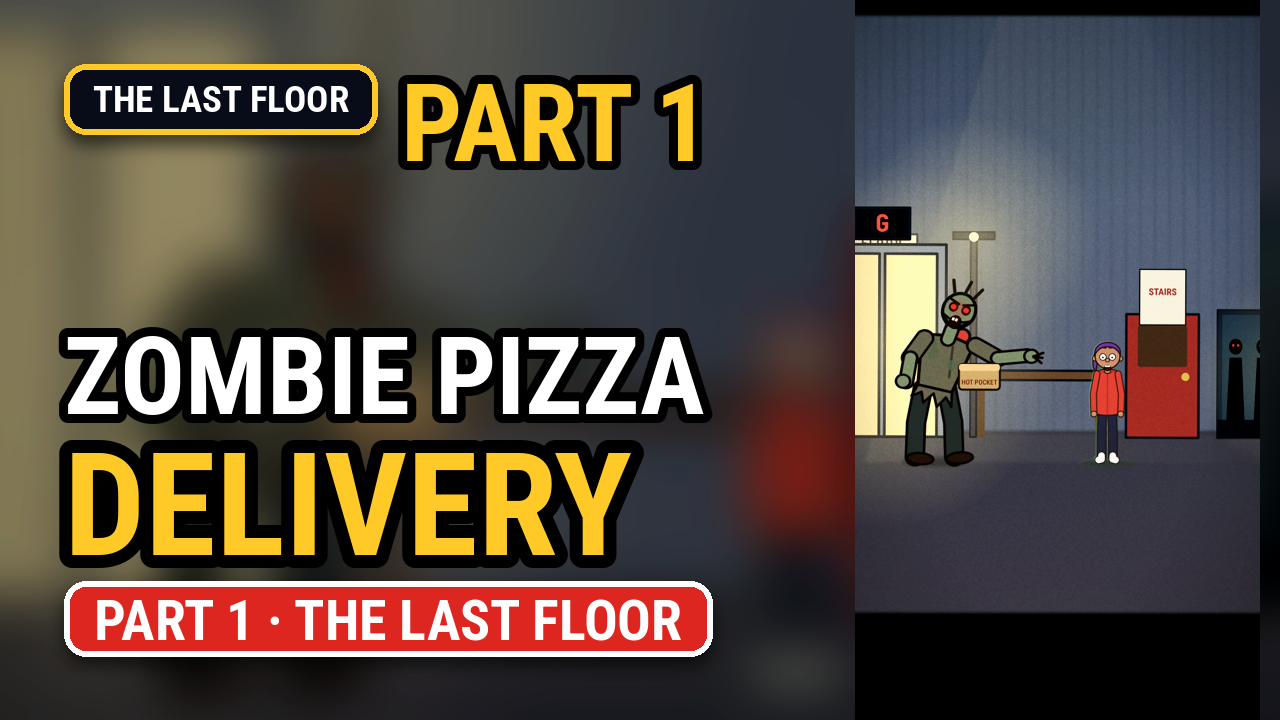
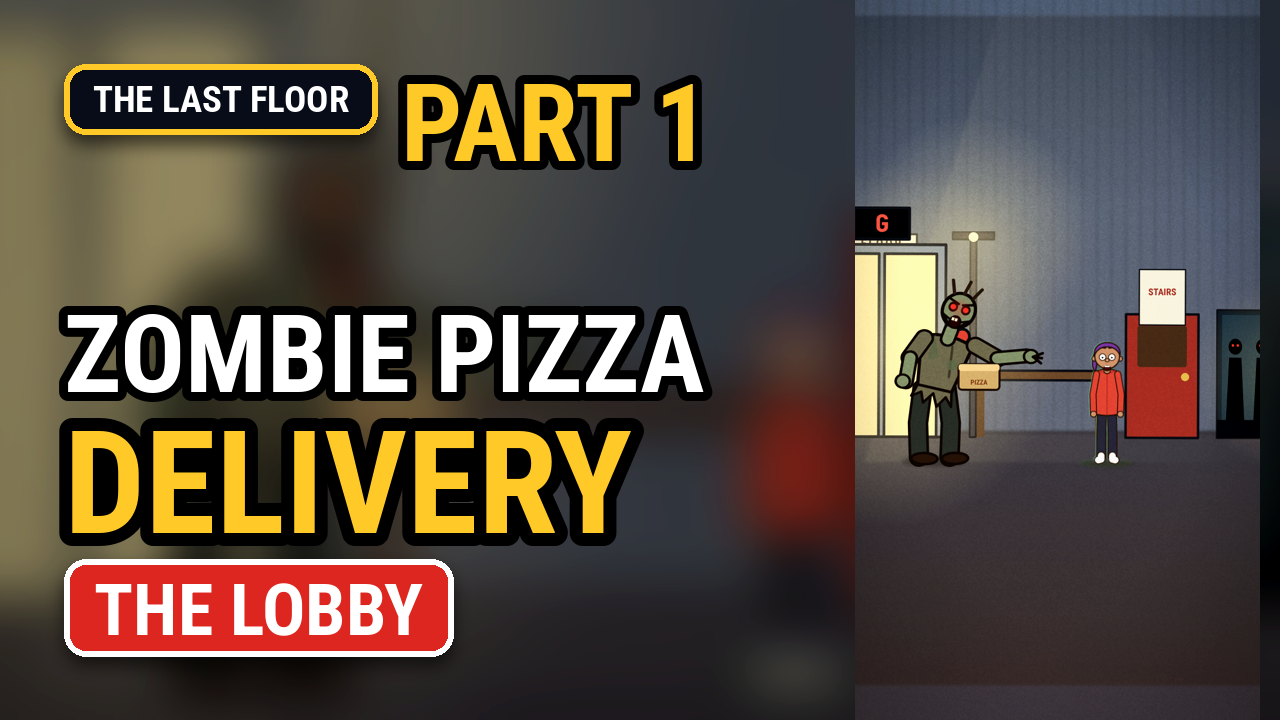
More studio fixes: blink + breathing, lamp flicker + dust, framing, cover headline at top, announcer lines keep 'part n of n', titles with 'Part n'
Claude-Session: https://claude.ai/code/session_01AhwUxu1FBH8sDaZQZihRT9

diff --git a/studio/long/pax9.js b/studio/long/pax9.js
@@ -26,11 +26,11 @@ const PEXP={ // eye type, brow [x1,y1,x2,y2] for the +x brow (mirrored for -x), 
  sleep:{eye:'closed',br:[5,-12,19,-12],mo:'snore'}, wince:{eye:'closed',br:[5,-15,19,-9],mo:'grit'},   deadpan:{eye:'half',br:[5,-12,19,-12],mo:'flat'},
  scared:{eye:'wide',br:[5,-20,19,-11],mo:'grit'},   cry:{eye:'wide',br:[5,-18,19,-9],mo:'frown'}};
 const MOUTH={flat:'M-8,28 L8,28',smile:'M-10,26 Q0,34 10,26',grin:'M-11,25 Q0,38 11,25 Z',wavy:'M-9,29 Q-4,25 0,29 T9,29',frown:'M-9,31 Q0,24 9,31',grit:'M-9,27 L9,27',smirk:'M-9,29 Q2,30 11,24',o:'M0,0',snore:'M-5,28 Q0,32 5,28'};
-function pEyes(q,ex,P,o,ink){const look=o.look||0;const red=o.red||0;
+function pEyes(q,ex,P,o,ink){const look=o.look||0;const red=o.red||0;q._lids=[];
  for(const s of[-1,1]){const cx=s*12,e=G(q,{});
   if(ex.eye==='closed'){E('path',{d:`M${cx-7},3 Q${cx},8 ${cx+7},3`,fill:'none',stroke:ink,'stroke-width':3,'stroke-linecap':'round'},e);continue}
   if(ex.eye==='happy'){E('path',{d:`M${cx-7},5 Q${cx},-4 ${cx+7},5`,fill:'none',stroke:ink,'stroke-width':3.2,'stroke-linecap':'round'},e);continue}
-  const r=ex.eye==='wide'?7.2:ex.eye==='wide2'?8.6:5.8;C(e,cx,2,r,red>0?`rgb(255,${Math.round(255-130*red)},${Math.round(255-150*red)})`:'#fff',{stroke:ink,'stroke-width':2});
+  const r=ex.eye==='wide'?7.2:ex.eye==='wide2'?8.6:5.8;if(!q._lids)q._lids=[];q._lids.push({cx,r,e});C(e,cx,2,r,red>0?`rgb(255,${Math.round(255-130*red)},${Math.round(255-150*red)})`:'#fff',{stroke:ink,'stroke-width':2});
   if(red>0)for(let k=0;k<4;k++){const a=k*1.7+s;L(e,cx+Math.cos(a)*r*.95,2+Math.sin(a)*r*.95,cx+Math.cos(a)*r*.45,2+Math.sin(a)*r*.45,'#d02020',1.2*red+.4,{opacity:.9})}
   C(e,cx+look,3,ex.eye==='wide2'?2.4:ex.eye==='wide'?3.2:2.9,P.eye);C(e,cx+look+1.4,1.2,1,'#fff');
   if(ex.eye==='half'){R(e,cx-8,-6,16,8.4,P.skin)&&L(e,cx-7,2.4,cx+7,2.4,ink,3)}}
@@ -118,7 +118,8 @@ function paxHead(g,P,o){
   q._mouth=m=>A(mo,{opacity:m>.08?1:0,ry:1+6*m});return q}
  for(const s of[-1,1])C(q,s*33,6,6.4,P.skin,{stroke:ink,'stroke-width':2.5});
  C(q,0,0,32,P.skin,{stroke:ink,'stroke-width':3});
- pPale(q,o);pEyes(q,ex,P,o,ink);pBrows(q,ex,D,ink);
+ pPale(q,o);pEyes(q,ex,P,o,ink);
+ const lids=(q._lids||[]).map(l=>E('ellipse',{cx:l.cx,cy:2,rx:l.r+1.3,ry:l.r+1.3,fill:P.skin,stroke:ink,'stroke-width':2,opacity:0},q));q._blink=(t,ph)=>{const b=((t*.8+ph)%3.4)<.13;lids.forEach(l=>A(l,{opacity:b?1:0}))};pBrows(q,ex,D,ink);
  E('ellipse',{cx:0,cy:10,rx:5,ry:4.4,fill:P.skinS,stroke:ink,'stroke-width':2},q);
  if(o.blush)for(const s of[-1,1])C(q,s*20,14,6,'#ff7a7a',{opacity:.35});
  pFaceExtras(q,D,P,v,ink,ex);
@@ -171,9 +172,9 @@ actor=function(g,o){
   if(o.shake){const lt=bt-o.shake.at;if(lt>0&&lt<o.shake.dur){x+=Math.sin(lt*60)*o.shake.amp}}
   if(o.tremble){x+=Math.sin(t*47+(o.ph||0))*o.tremble;y+=Math.cos(t*53)*o.tremble*.6}
   if(o.squash){const lt=bt-o.squash.at;if(lt>0&&lt<.25){const p=Math.sin(lt/.25*Math.PI);sy=1-.12*p;sx=1+.1*p}}
-  if(o.snore){const br=Math.sin(t*2.2);sy*=1+.012*br;bob+=br*1.5}
+  if(o.snore){const br=Math.sin(t*2.2);sy*=1+.012*br;bob+=br*1.5}else{sy*=1+.010*Math.sin(t*2.3+(o.ph||0))}   // breathing
   A(root,{transform:`translate(${x} ${y+bob}) rotate(${rot}) scale(${base.s*base.fl*base.sx*sx} ${base.s*sy})`});
-  const talk=o.talk===true?who:o.talk;const m=talk?mouth(talk):(o.mouth||0);hds.forEach(h=>h&&h._mouth&&h._mouth(m))},root,A1,A2}};
+  const talk=o.talk===true?who:o.talk;const m=talk?mouth(talk):(o.mouth||0);hds.forEach(h=>{if(h&&h._mouth)h._mouth(m);if(h&&h._blink)h._blink(t,(o.ph||0)*3.1)})},root,A1,A2}};
 
 /* Amara's baby sling: the baby's head + hat peeks out (front view only) */
 function slingDeco(g,v){if(v!=='front')return;blob(g,'M-30,-226 Q0,-204 30,-226 L24,-160 Q0,-146 -24,-160Z','#e8d8b8','#241810');const b=G(g,{transform:'translate(0 -212)'});C(b,0,0,15,'#8d5a3b',{stroke:'#241810','stroke-width':2.4});C(b,0,-9,11,'#ffd0e0',{stroke:'#241810','stroke-width':2});C(b,-5,2,2,'#241810');C(b,5,2,2,'#241810');C(b,0,9,3.4,'#ffd23a',{stroke:'#241810','stroke-width':1.6})}

diff --git a/studio/long/world9.js b/studio/long/world9.js
@@ -8,12 +8,13 @@ const sh=(c,a)=>c; const rr=(n)=>rnd(n);
 /* ---- cast ---- */
 for(const id in (W.cast||{})){const c=W.cast[id];defPax(id,Object.assign({ink:'#241810',boot:'#2a2118',skinS:'#c99a74'},c.pal||{}),Object.assign({},c.look||{}))}
 /* ---- item catalogue: draw(g,o) with the ground point at (0,0), facing the viewer ---- */
+const FLK=[];
 const IT={
  building:(g,o)=>{const w=o.w||180,h=o.h||300,c=o.c||'#4a5068';R(g,-w/2,-h,w,h,c,S());R(g,-w/2-6,-h-10,w+12,14,o.c2||'#2f3345',S());const rows=Math.floor(h/58),cols=Math.max(2,Math.floor(w/52));for(let r=0;r<rows;r++)for(let k=0;k<cols;k++){const lit=rr(r*7+k*3+(o.x||0))<(o.lit==null?.35:o.lit);R(g,-w/2+14+k*(w-28)/cols,-h+22+r*58,(w-28)/cols-10,34,lit?GL:'#1d2233',{rx:2,opacity:lit?.95:.9})}R(g,-18,-52,36,52,'#1d2233',S())},
  house:(g,o)=>{const w=o.w||200,h=o.h||130;R(g,-w/2,-h,w,h,o.c||'#b98a5a',S());P(g,`M${-w/2-14},${-h} L0,${-h-80} L${w/2+14},${-h}Z`,o.c2||'#6a2e26',S());R(g,-18,-64,36,64,'#3a2418',S());R(g,w/2-70,-96,44,40,GL,S());R(g,-w/2+26,-96,44,40,GL,S())},
  tree:(g,o)=>{const h=o.h||240;R(g,-8,-h*.5,16,h*.5,'#4a3520',S({'stroke-width':2.5}));C(g,0,-h*.66,h*.34,o.c||'#2f5a34',S());C(g,-h*.2,-h*.52,h*.22,o.c2||'#3a6a3c',S({'stroke-width':0}));C(g,h*.18,-h*.78,h*.2,o.c2||'#3a6a3c',S({'stroke-width':0}))},
  pine:(g,o)=>{const h=o.h||260;R(g,-6,-30,12,30,'#4a3520');for(let i=0;i<4;i++)P(g,`M${-70+i*10},${-30-i*h*.2} L0,${-h*.4-i*h*.2-30} L${70-i*10},${-30-i*h*.2}Z`,o.c||'#1f4a36',S({'stroke-width':2.5}))},
- lamp:(g,o)=>{const h=o.h||260;R(g,-5,-h,10,h,'#3a3a44',S({'stroke-width':2}));R(g,-34,-h-6,68,12,'#2a2a34',S({'stroke-width':2.5}));C(g,0,-h+4,o.r||150,'url(#gLamp)',{opacity:.45});C(g,0,-h+2,8,'#fff3c0')},
+ lamp:(g,o)=>{const h=o.h||260;R(g,-5,-h,10,h,'#3a3a44',S({'stroke-width':2}));R(g,-34,-h-6,68,12,'#2a2a34',S({'stroke-width':2.5}));FLK.push(C(g,0,-h+4,o.r||150,'url(#gLamp)',{opacity:.45}));C(g,0,-h+2,8,'#fff3c0')},
  crate:(g,o)=>{const w=o.w||80;R(g,-w/2,-w,w,w,o.c||'#a67c46',S());L(g,-w/2,-w,w/2,0,'#6a4a26',4);L(g,w/2,-w,-w/2,0,'#6a4a26',4)},
  barrel:(g,o)=>{R(g,-30,-76,60,76,o.c||'#5a6a7a',S({rx:10}));L(g,-30,-52,30,-52,'#2a343e',4);L(g,-30,-24,30,-24,'#2a343e',4)},
  car:(g,o)=>{const c=o.c||'#9a3a3a';P(g,'M-110,-30 L-100,-70 L-60,-76 L-34,-112 L50,-112 L84,-76 L112,-66 L116,-30Z',c,S());P(g,'M-28,-104 L-52,-76 L-10,-76 L-10,-104Z M2,-104 L2,-76 L76,-76 L46,-104Z','#9fc3d8',S({'stroke-width':2.4}));for(const x of[-68,72]){C(g,x,-24,24,'#1a1a20',S());C(g,x,-24,10,'#8a8a94')}},
@@ -72,7 +73,7 @@ function skyDraw(f,L){const sk=P_.sky||['#3d3a6e','#c2677a','#f1a477'];const id=
  if(W.clouds!==false){fCloud(f,260,170,520,P_.cloud||'#ffc9a8',.36);fCloud(f,940,240,620,P_.cloud2||'#e79a9a',.3)}
  if(W.sun)C(f,L.sunx||920,L.suny||190,60,'#fff3c0',{opacity:.9})}
 function lanePos(vpx,vpy,gy){return {x:(X,z)=>vpx+X/z,y:z=>vpy+(gy-vpy)/z}}
-LOC['w_'+W.id]=(Z,p)=>{const LC=(W.locs||{})[p.v||Object.keys(W.locs)[0]]||{};const f=G(Z.far),m=G(Z.mid),n=G(Z.near);const upd=[];const kind=LC.kind||'out';
+LOC['w_'+W.id]=(Z,p)=>{FLK.length=0;const LC=(W.locs||{})[p.v||Object.keys(W.locs)[0]]||{};const f=G(Z.far),m=G(Z.mid),n=G(Z.near);const upd=[];const kind=LC.kind||'out';
  const layers=[G(f),G(m),G(n)];
  if(kind==='in'){R(f,-200,-700,1680,2400,LC.wall||P_.wall||'#3a3530');for(let i=0;i<64;i++)R(f,i*24-60,-700,2,2400,'rgba(0,0,0,.18)');R(f,-200,590,1680,900,LC.floor||P_.floor||'#2a2420');R(f,-200,590,1680,420,'url(#gGroundShade)',{opacity:.8});L(f,-200,590,1480,590,'rgba(0,0,0,.4)',4);
   if(LC.light!==false)P(f,'M520,-100 L760,-100 L980,640 L300,640Z','url(#gCone)',{opacity:.12});R(f,-200,-100,1680,900,'url(#gWallShade)',{opacity:.8});A(f,{style:'filter:blur(2.4px)'})}

diff --git a/studio/long/arcs/lastfloor/lastfloor_02.py b/studio/long/arcs/lastfloor/lastfloor_02.py
@@ -13,9 +13,9 @@ EL=lambda lab='G',open_=False:[dict(t='elevator',x=330,y=600,s=1.5,open=open_,la
 LOB=dict(x=620,y=470,z=.62)
 # 1 HOOK  who: Zara + zombie courier | where: lobby, elevator open
 ST=dict(x=640,y=450,z=.7);RF=dict(x=640,y=470,z=.7)
-LANDX=(930,1000);LANDY=282          # top landing of the flight: floor level of the next floor
+LANDX=(900,1000);LANDY=282          # top landing of the flight: floor level of the next floor
 SOFA=lambda:dict(k='prop',t='sofa',x=stp(5)[0],y=stp(5)[1]+8,s=.8)
-REDDOOR=dict(k='prop',t='door',x=1000,y=LANDY,s=1.1,c='#a8332b')
+REDDOOR=dict(k='prop',t='door',x=985,y=LANDY,s=1.0,c='#a8332b')
 # ---------- hall, floor 4: Mrs. Lin ----------
 P.B(S([('omar',"Floor four. Mrs. Lin lives here.","ชั้นสี่ คุณนายลินอยู่ที่นี่")]),W.lane('hall',[W.at('omar',-90,2.1,'worried',view='back'),W.at('zara',70,2.3,'scared',view='back'),W.at('bell',-10,2.9,'scared',view='back')],x=640,y=430,z=1.0),mood='creep',cam='travel',fx=[P.announce()],sfx=[('creak',.3)],
  intent=I('Omar, Zara, Bell','The group tiptoes down the hall on floor four toward a glowing door, seen from behind','hall on floor 4, door at the end','back views walking away down the corridor','Is Mrs. Lin still alive?'))
@@ -31,7 +31,7 @@ P.B(S([('bell',"I did. Rule one.","ฉันเอง กฎข้อแรก")
 P.B(S([('bell',"Go up. Seal the door behind you.","ขึ้นข้างบน ปิดประตูข้างหลัง")]),card('rulecard',n=1,head='TOWER RULE',lines=['GO UP','SEAL THE DOOR','BEHIND YOU'],bg=dict(loc='w_lastfloor',v='stair',z=1.6,x=640,y=430)),mood='warm',sfx=[('bell',0)],
  intent=I('Bell','Bell states rule one; the card shows GO UP, SEAL THE DOOR BEHIND YOU','stair, rule card hung on the wall','paper tag over the blurred stairwell','Will they be able to follow it?'))
 # ---------- the flight: sofa on step 5 ----------
-S5=Scene(W,'stair',x=700,y=450,z=.7,add=fl(5))
+S5=Scene(W,'stair',x=660,y=450,z=.7,add=fl(5))
 for who,k,ex in (('lin',0,'calm'),('zara',1,'calm'),('omar',2,'worried'),('bell',3,'calm')):S5.put(who,stp(k)[0],stp(k)[1],expr=ex)
 P.B(S([('omar',"Floor four, five, six... that's a lot of floors.","ชั้นสี่ ห้า หก... ชั้นเยอะจัง"),('zara',"Keep climbing. Don't count.","เดินต่อ อย่านับ")]),S5.shot(moves={'lin':(stp(1)[0],'walk',stp(1)[1]),'zara':(stp(2)[0],'walk',stp(2)[1]),'omar':(stp(3)[0],'walk',stp(3)[1]),'bell':(stp(4)[0],'walk',stp(4)[1])},extra=[SOFA()]),mood='comic',cam='drift',sfx=[('sigh',.3),('rimshot',1.6)],
  intent=I('Omar, Zara, Mrs. Lin, Bell','Four climbers walk up the stairs in a line toward a big red sofa lying across the steps','stair, floor 5 sign, sofa on step 5','side view, all four climb, the sofa is ahead of them','Is Omar going to make it all the way?'))
@@ -45,19 +45,19 @@ P.B(S([('zara',"...Direct hit.","...โดนเต็มๆ")]),S5.shot(zmoves=
  intent=I('Zara, Omar, Bell, Mrs. Lin','The sofa tumbles down the stairs and flattens the zombies; the climbers grin','stair, floor 5, the sofa falls to the bottom','the sofa spins down the steps onto the zombies, sticker THUD!','What waits on floor six?'))
 S5.zout('z1','z3')
 S6=S5;S6.add=fl(6)
-P.B(S([('lin',"That's my sister's flat. She says never open it.","นั่นห้องของพี่สาวฉัน เธอบอกว่าห้ามเปิด")]),S6.shot(moves={'bell':(LANDX[0],'walk',LANDY),'omar':(LANDX[0]-60,'walk',LANDY),'zara':(LANDX[0]-120,'walk',LANDY),'lin':(LANDX[0]-180,'walk',LANDY)},extra=[REDDOOR,dict(k='prop',t='poster',x=1000,y=LANDY-110,s=.55,label='NO')]),mood='creep',cam='push_in',sfx=[('stab',.2),('heartbeat',.6)],
+P.B(S([('lin',"That's my sister's flat. She says never open it.","นั่นห้องของพี่สาวฉัน เธอบอกว่าห้ามเปิด")]),S6.shot(moves={'bell':(LANDX[0],'walk',LANDY),'omar':(LANDX[0]-60,'walk',LANDY),'zara':(LANDX[0]-120,'walk',LANDY),'lin':(LANDX[0]-180,'walk',LANDY)},extra=[REDDOOR,dict(k='prop',t='poster',x=985,y=LANDY-100,s=.5,label='NO')]),mood='creep',cam='push_in',sfx=[('stab',.2),('heartbeat',.6)],
  intent=I('Mrs. Lin, Omar, Zara, Bell','They climb onto the floor-six landing where a red door marked NO waits','stair, floor 6 landing, red door at the right','everyone walks up the last steps toward the red door','What is behind the red door?'))
 # ---------- flat of floor 6: Dot ----------
 F=Scene(W,'flat',x=620,y=470,z=.62)
-F.put('lin',440,expr='worried').put('omar',340,expr='shock').put('bell',250,expr='scared').zput('dot',860,seed=21,sc=1.0,held='crate')
+F.put('lin',500,expr='worried').put('omar',410,expr='shock').put('bell',335,expr='scared').zput('dot',860,seed=21,sc=1.0,held='crate')
 P.B(S([('lin',"Dot, you're not well.","ด็อต เธอไม่สบาย")]),F.shot(extra=[dict(k='prop',t='crate',x=640,y=600,s=.9),dict(k='prop',t='barrel',x=720,y=600,s=.8)],pose={'lin':'stand'}),mood='comic',sfx=[('creak',.1),('rimshot',1.2)],
  intent=I('Mrs. Lin, Omar, Bell, Dot the zombie','The door swings open on a messy flat; Dot the zombie stands in a party hat holding a casserole','flat on floor 6, junk piled everywhere','wide shot of the flat, Dot at the right with a casserole','Will Dot attack?'))
-P.B(S([('bell',"Leave her. Lock the door.","ทิ้งเธอไว้ ล็อกประตู")]),F.shot(zmoves={'dot':(700,True)},moves={'bell':(300,'walk')},expr={'bell':'angry'},extra=[dict(k='prop',t='crate',x=640,y=600,s=.9),dict(k='prop',t='barrel',x=720,y=600,s=.8)]),mood='creep',cam='push_in',sfx=[('stab',.2)],
+P.B(S([('bell',"Leave her. Lock the door.","ทิ้งเธอไว้ ล็อกประตู")]),F.shot(zmoves={'dot':(700,True)},moves={'bell':(350,'walk')},expr={'bell':'angry'},extra=[dict(k='prop',t='crate',x=640,y=600,s=.9),dict(k='prop',t='barrel',x=720,y=600,s=.8)]),mood='creep',cam='push_in',sfx=[('stab',.2)],
  intent=I('Bell, Mrs. Lin, Omar, Dot','Dot shuffles toward them with the casserole while Bell reaches for the door handle','flat on floor 6','Dot walks into the shot, Bell grabs the door','Will they get the door shut in time?'))
 P.B(S([('lin',"Goodbye, Dot. Click.","ลาก่อน ด็อต คลิก")]),card('macro',obj='lock',bg=dict(loc='w_lastfloor',v='stair',z=1.7,x=640,y=430)),mood='sad',sfx=[('click',.5),('swell',0)],
  intent=I('Mrs. Lin','Mrs. Lin turns the key and locks her sister in','stair, close-up of the lock','macro card of the padlock, click and a sad swell','Is this the only way to keep Dot safe?'))
 # ---------- up again: floors 7-9 ----------
-S7=Scene(W,'stair',x=700,y=450,z=.7,add=fl(7))
+S7=Scene(W,'stair',x=660,y=450,z=.7,add=fl(7))
 for who,k,ex in (('lin',0,'worried'),('zara',1,'scared'),('omar',2,'scared'),('bell',3,'worried')):S7.put(who,stp(k)[0],stp(k)[1],expr=ex)
 S7.zput('z1',300,seed=31).zput('z2',380,seed=32).zput('z3',460,seed=33)
 P.B(S([('zara',"They're gaining. Floor seven.","พวกมันตามทัน ชั้นเจ็ด")]),S7.shot(moves={'lin':(stp(2)[0],'run',stp(2)[1]),'zara':(stp(3)[0],'run',stp(3)[1]),'omar':(stp(4)[0],'run',stp(4)[1]),'bell':(stp(5)[0],'run',stp(5)[1])},zmoves={'z1':400,'z2':470,'z3':540}),mood='creep',cam='push_in',sfx=[('horde',.1),('heartbeat',.5)],
@@ -73,5 +73,5 @@ META=W.meta(hook='Never Open The Red Door! A Sofa Smashes The Zombies',premise='
  body='Part 2 of THE LAST FLOOR: the climb gets harder. A sofa blocks the stairs, Mrs. Lin has to lock her zombie sister in, and the zombies are one flight behind. Real tip: block and seal doors behind you, and keep moving up.',nxt='the roof',ask='Would YOU have opened the red door? Tell me in the comments.',
  tags='the last floor, zombie apartment, zombie apocalypse animation, zombie story, apartment survival, zombie survival tips, funny zombie animation, animated zombie series, zombie shorts, post time survival, zombie comedy, parrot, tower, stairwell, survival tips, apocalypse story, animated comedy',
  tt='Never open the red door. 🚪🧟 A sofa, a sister and 12 floors.',ig='Never open the red door. 🚪 A sofa, a sister and 12 floors. Real survival tip inside.',pin='Would YOU open the red door? 👇 Next: the roof.')
-COVER=dict(beat=6,frac=.55,main="DON'T OPEN|THE RED DOOR",box='PART 2 · THE LAST FLOOR')
+COVER=dict(beat=6,frac=.55,main="DON'T OPEN|THE RED DOOR",box='THE STAIRS')
 VOICES,FILT,SPEAKERS,NAMES_EN,NAMES_TH,ALL_WORDS,WORLD,NEW=W.exports(part_new=['mrs-lin','sofa-barricade','dot-the-zombie'])

diff --git a/studio/long/arcs/lastfloor/lastfloor_01.py b/studio/long/arcs/lastfloor/lastfloor_01.py
@@ -37,7 +37,7 @@ P.B(S([('bell',"Evac helicopter. Roof. Six a.m.","เฮลิคอปเตอ
 P.B(S([('zara',"Twelve floors. In the dark.","สิบสองชั้น ในความมืด"),('bell',"Then we start now.","งั้นเริ่มเดี๋ยวนี้")]),L.shot(moves={'bell':(775,'run'),'zara':(810,'run')},expr={'zara':'scared'},add=ELV('B',False)),mood='creep',cam='push_in',fx=[sticker(.4,'BANG!',x=300,y=170,rot=6,size=56,c='#ffcf6a',dur=1.0),shake(.4,5,.5)],sfx=[('horde',.1),('stab',.5)],
  intent=I('Bell, Zara','Zombies slam the glass front door while Bell and Zara run for the red stair door','lobby, glass door at the right, stair door in the middle','both run to the stair door, BANG! on the glass','Will the glass hold?'))
 # ============ STAIRS: floor 1 -> 2 ============
-S1=Scene(W,'stair',x=640,y=450,z=.7,add=fl(2))
+S1=Scene(W,'stair',x=600,y=450,z=.7,add=fl(2))
 S1.put('bell',stp(0)[0]-40,stp(0)[1]+40,expr='calm').put('zara',stp(0)[0]-90,stp(0)[1]+50,expr='worried')
 P.B(S([('bell',"Zombies hate stairs. No hands for the rail.","ซอมบี้เกลียดบันได ไม่มีมือจับราว")]),S1.shot(moves={'bell':(stp(4)[0],'walk',stp(4)[1]),'zara':(stp(3)[0],'walk',stp(3)[1])}),mood='warm',cam='drift',sfx=[('sigh',.2)],
  intent=I('Bell, Zara','Bell and Zara come through the stair door and climb the first flight','stair, floor 2 sign on the wall','side view, both walk up the diagonal steps','Is the stairwell really safer?'))
@@ -47,18 +47,18 @@ P.B(S([('zara',"Floor two. Every door is open.","ชั้นสอง ทุก
 P.B(S([('bell',"Close them. One by one.","ปิดมัน ทีละบาน")]),card('macro',obj='lock',bg=dict(loc='w_lastfloor',v='stair',z=1.7,x=640,y=430)),mood='warm',sfx=[('click',.3),('bell',.8)],
  intent=I('Bell','Bell clicks a fire-door lock shut behind them','stair, close-up of the lock','macro card of the padlock and chain, click sound','Is one lock enough?'))
 # ============ STAIRS, floor 3 landing: Omar ============
-S2=Scene(W,'stair',x=640,y=450,z=.7,add=fl(3))
+S2=Scene(W,'stair',x=700,y=450,z=.7,add=fl(3))
 S2.put('bell',470,expr='calm').put('zara',590,expr='worried')
 DOOR3=dict(k='prop',t='door',x=940,y=600,s=1.3)
 P.B(S([('omar',"Don't hurt me! I'm a chef!","อย่าทำร้ายผม! ผมเป็นเชฟ")]),S2.shot(extra=[DOOR3,W.person('omar','scared',940,FOOT,view='front',pose='panic')]),mood='comic',sfx=[('creak',.1),('boing',.7)],
  intent=I('Omar, Zara, Bell','Omar flings his flat door open and waves a frying pan at them','stair, floor 3 landing, door at the right','panic pose, pan raised, door open','Can a chef fight zombies?'))
 S2.put('omar',940,expr='smile')
-P.B(S([('omar',"I brought my pan.","ผมเอากระทะมาด้วย"),('zara',"A pan is not a plan.","กระทะไม่ใช่แผน")]),S2.shot(moves={'omar':(800,'walk')},vx=720,z=.85,expr={'zara':'angry'},extra=[DOOR3]),mood='comic',sfx=[('rimshot',.9)],
+P.B(S([('omar',"I brought my pan.","ผมเอากระทะมาด้วย"),('zara',"A pan is not a plan.","กระทะไม่ใช่แผน")]),S2.shot(moves={'omar':(800,'walk')},vx=680,z=.85,expr={'zara':'angry'},extra=[DOOR3]),mood='comic',sfx=[('rimshot',.9)],
  intent=I('Omar, Zara','Omar walks toward them lifting the pan proudly while Zara rolls her eyes','stair, floor 3 landing','medium shot of the group at the landing','Does the pan do anything useful?'))
 S2.hold('omar','cage',ox=62,oy=-120,sc=1.0)
 P.B(S([('omar',"Also, meet Pip. Mrs. Lin's parrot.","และนี่พิพ นกแก้วของคุณนายลิน")]),S2.shot(moves={'omar':(690,'walk')},expr={'omar':'grin'},extra=[DOOR3]),mood='comic',sfx=[('boing',.1)],
  intent=I('Omar, Bell, Zara','Omar walks over carrying a birdcage with a parrot inside','stair, floor 3 landing','Omar carries the cage across the shot toward the others','What will the parrot do?'))
-P.B(S([('pip',"Open the door! Open the door!","เปิดประตู! เปิดประตู!"),('bell',"Pip. Not that sentence.","พิพ ไม่ใช่ประโยคนั้น")]),S2.shot(vx=640,z=1.1,expr={'bell':'angry'},extra=[DOOR3]),mood='comic',fx=[sticker(.2,'SQUAWK!',x=225,y=170,rot=-6,size=56,c='#ffe14a',dur=1.5)],sfx=[('boing',.1)],
+P.B(S([('pip',"Open the door! Open the door!","เปิดประตู! เปิดประตู!"),('bell',"Pip. Not that sentence.","พิพ ไม่ใช่ประโยคนั้น")]),S2.shot(vx=680,z=1.1,expr={'bell':'angry'},extra=[DOOR3]),mood='comic',fx=[sticker(.2,'SQUAWK!',x=225,y=170,rot=-6,size=56,c='#ffe14a',dur=1.5)],sfx=[('boing',.1)],
  intent=I('Bell, Omar, Pip','The parrot squawks and Bell winces beside Omar and the cage','stair, floor 3 landing, closer shot','medium shot, sticker SQUAWK!','Who else heard that?'))
 S2.zput('z1',250,seed=9).zput('z2',340,seed=12).zput('z3',170,seed=15)
 S2.p['zara']['face']='backhead'
@@ -70,5 +70,5 @@ META=W.meta(hook='A Zombie Delivers Pizza To The Elevator! 12 Floors To Survive'
  body='The super and a teen must climb a zombie-filled tower to the roof before the 6 a.m. rescue helicopter. Real tip: never take the elevator, use the stairs and lock the fire doors behind you.',nxt='the stairs',ask='Which floor would YOU stop on? Tell me in the comments.',
  tags='the last floor, zombie apartment, zombie apocalypse animation, zombie story, apartment survival, zombie survival tips, funny zombie animation, animated zombie series, zombie shorts, post time survival, zombie comedy, parrot, tower, stairwell, survival tips, apocalypse story, animated comedy',
  tt='A zombie delivered pizza to the elevator. 🍕🧟 12 floors, one parrot, one pan.',ig='A zombie delivered pizza to the elevator. 🍕 12 floors, one parrot, one pan. Real survival tip inside.',pin='Which floor would YOU stop on? 👇 Next: the stairs.')
-COVER=dict(beat=0,frac=.55,main='ZOMBIE PIZZA|DELIVERY',box='PART 1 · THE LAST FLOOR')
+COVER=dict(beat=0,frac=.55,main='ZOMBIE PIZZA|DELIVERY',box='THE LOBBY')
 VOICES,FILT,SPEAKERS,NAMES_EN,NAMES_TH,ALL_WORDS,WORLD,NEW=W.exports()

diff --git a/studio/long/worldlib.py b/studio/long/worldlib.py
@@ -146,8 +146,8 @@ class WorldPart(Script):
             fx.append(dict(k=s.W.id+'_route',at=0,stop=s.part,of=s.of,label=f'{s.say}  ·  {lab}'));return s.beat(say,sc,view=view,fx=fx,**k)
         return s.beat(say,shot,fx=fx,**k)
     def open(s,**k):
-        a=s.W.spec['ann'];return s.B([('ann',f"{s.say}. Part {NUMW[s.part]}: {s.topic.lower()}.")],card(s.W.id+'_ann',mode='open',part=s.part,of=s.of,title=s.topic.upper()),mood='idle',sfx=[('radio',0)],**k)
+        a=s.W.spec['ann'];return s.B([('ann',f"{s.say}. Part {NUMW[s.part]} of {NUMW[s.of]}: {s.topic.lower()}.")],card(s.W.id+'_ann',mode='open',part=s.part,of=s.of,title=s.topic.upper()),mood='idle',sfx=[('radio',0)],**k)
     def close(s,nxt=None,**k):
-        if s.part<s.of:t=f"Next: {(nxt or '').lower()}. Follow for part {NUMW[s.part+1]}.";c=card(s.W.id+'_ann',mode='close',part=s.part,of=s.of,next=(nxt or '').upper())
-        else:t=f"The end. Follow for the next series.";c=card(s.W.id+'_ann',mode='end',part=s.part,of=s.of)
+        if s.part<s.of:t=f"Part {NUMW[s.part]} of {NUMW[s.of]}, {s.say}. Next: {(nxt or '').lower()}. Follow for part {NUMW[s.part+1]}.";c=card(s.W.id+'_ann',mode='close',part=s.part,of=s.of,next=(nxt or '').upper())
+        else:t=f"Part {NUMW[s.of]} of {NUMW[s.of]}, the end of {s.say}. Follow for the next series.";c=card(s.W.id+'_ann',mode='end',part=s.part,of=s.of)
         return s.B([('ann',t)],c,mood='idle' if s.part<s.of else 'sad',nofade=s.part>=s.of,sfx=[('radio',0)],**k)

diff --git a/studio/ser/cover.py b/studio/ser/cover.py
@@ -18,7 +18,7 @@ def shadowbox(img,box,fill,radius,outline=None):
     sh=Image.new('RGBA',img.size,(0,0,0,0));ImageDraw.Draw(sh).rounded_rectangle([box[0]+0,box[1]+10,box[2],box[3]+10],radius,fill=(0,0,0,150))
     img.alpha_composite(sh.filter(ImageFilter.GaussianBlur(8)))
     d=ImageDraw.Draw(img);d.rounded_rectangle(box,radius,fill=fill,outline=outline,width=6 if outline else 0)
-def make(base,out,aspect,part,main,box,accent=0,tag="THE LIGHTHOUSE"):
+def make(base,out,aspect,part,main,box,accent=0,tag="THE LIGHTHOUSE",top=False):
     im=Image.open(base).convert('RGBA')
     # contrast / saturation pop + vignette
     from PIL import ImageEnhance
@@ -38,7 +38,7 @@ def make(base,out,aspect,part,main,box,accent=0,tag="THE LIGHTHOUSE"):
         bsz=fit(box,W-2*m-70,int(W*.10));bw=F(bsz).getlength(box)+70;bh=int(bsz*1.35)
         msz=[fit(ln,W-2*m,int(W*.165)) for ln in lines]
         block=sum(int(z*1.0) for z in msz)+18+bh
-        y=yb-block
+        y=(y0+th+34) if top else yb-block      # top=True: the headline sits in the upper third so it never covers the cast standing in the lower half
         for i,ln in enumerate(lines):
             outlined(d,(W/2,y),ln,msz[i],YEL if i==accent else WHITE,'ma');y+=int(msz[i]*1.0)
         shadowbox(im,[W/2-bw/2,y+18,W/2+bw/2,y+18+bh],RED,28,outline=WHITE);d=ImageDraw.Draw(im)

diff --git a/studio/long/arcs/lastfloor/lastfloor_03.py b/studio/long/arcs/lastfloor/lastfloor_03.py
@@ -66,5 +66,5 @@ META=W.meta(hook='Three Flashes Saved Us On The Roof! A Parrot Yells MAYDAY',pre
  body='Finale of THE LAST FLOOR. The survivors find the roof key and signal the helicopter with a frying pan. Real tip: three of anything (flashes, fires, whistle blasts) is the international distress signal.',nxt='',ask='What would YOU use to signal for help? Tell me in the comments.',
  tags='the last floor, zombie apartment, zombie apocalypse animation, zombie story, apartment survival, zombie survival tips, funny zombie animation, animated zombie series, zombie shorts, post time survival, zombie comedy, parrot, tower, stairwell, survival tips, apocalypse story, animated comedy',
  tt='Three flashes. 🚁🧟 The roof, the rescue and a parrot yelling MAYDAY.',ig='Three flashes. 🚁 The finale: the roof, the rescue and a parrot yelling MAYDAY. Real survival tip inside.',pin='What would YOU use to signal for help? 👇')
-COVER=dict(beat=9,frac=.55,main='A PAN SAVED|THE ROOF',box='PART 3 · THE LAST FLOOR')
+COVER=dict(beat=9,frac=.55,main='A PAN SAVED|THE ROOF',box='THE ROOF')
 VOICES,FILT,SPEAKERS,NAMES_EN,NAMES_TH,ALL_WORDS,WORLD,NEW=W.exports(part_new=['signal-in-threes','pan-mirror','key-roof','helicopter-rescue'])

diff --git a/studio/long/clipreg.py b/studio/long/clipreg.py
@@ -41,7 +41,7 @@ def meta(n):
     if legacy(n):
         import meta_lb;m=dict(meta_lb.M[int(n)]);m['tags']=meta_lb.YT_TAGS;return m
     M=module(n).META;s=series(n);nm=s['name'];p=s['part'];of=s['of'];fin=p>=of;nxt=M.get('nxt','')
-    sfx=f" | {nm.title() if nm.isupper() else nm} P{p}"+(' Finale' if fin else '');hook=M['hook'].strip()
+    sfx=f" | {nm.title() if nm.isupper() else nm} Part {p}"+(' Finale' if fin else '');hook=M['hook'].strip()
     if len(hook)+len(sfx)>70:            # marketing: <= 70 characters so phones do not cut the title; shorten the hook at a word boundary
         cut=hook[:70-len(sfx)-1].rsplit(' ',1)[0].rstrip(' ,;:-—!?')
         hook=cut+('!' if M['hook'].rstrip().endswith('!') else '')

diff --git a/studio/departments/audit_visual.py b/studio/departments/audit_visual.py
@@ -55,7 +55,7 @@ def audit(cid):
         vx=vx[0] if isinstance(vx,list) else vx
         for a in p.get('acts',[]):
             if a.get('k') in('prop','horde','dog','sticker') or a.get('x') is None:continue
-            xs=[a['x']]+([a['to'][0]] if a.get('to') else [])
+            xs=[a['to'][0]] if a.get('to') else [a['x']]      # a person who walks may enter the frame from outside; only the end point counts
             for x in xs:
                 sx=225+(x-vx)*z*1.045;hw=38*a.get('s',.7)*z*1.045*(a.get('sx',1))
                 if sx-hw<-4 or sx+hw>454:cut.append((i,a['k'],round(sx)));break

diff --git a/studio/long/cover9.py b/studio/long/cover9.py
@@ -34,6 +34,6 @@ if __name__=='__main__':
     for n in [int(x) if x.isdigit() else x for x in a]:
         bp=base(n,R+'/covers9/base');_,_,main,box,acc=CR.cover_cfg(n);si=CR.series(n)
         out9=f'{R}/'+CR.cover(n,'9x16');out169=f'{R}/'+CR.cover(n,'16x9')
-        cover.make(bp,out9,'916',f"PART {si['part']}",main,box,acc,tag=si['name'])
+        cover.make(bp,out9,'916',f"PART {si['part']}",main,box,acc,tag=si['name'],top=(not CR.legacy(n) and hasattr(CR.module(n),'WORLD')))
         cover.make169_from916(bp,out169,f"PART {si['part']}",main,box,acc,tag=si['name'])
         print('cover',n,out9)

diff --git a/studio/long/release9/lastfloor_01/PUBLISH.md b/studio/long/release9/lastfloor_01/PUBLISH.md
@@ -1,7 +1,7 @@
 # THE LAST FLOOR - Part 1 of 3 - publish kit
 
-**YouTube title** (86 chars)
-`A Zombie Delivers Pizza To The Elevator! 12 Floors To Survive — The Last Floor, Part 1`
+**YouTube title** (63 chars)
+`A Zombie Delivers Pizza To The Elevator! 12 | The Last Floor P1`
 
 **YouTube description**
 ```
@@ -19,7 +19,7 @@ Bell, Zara, Omar, Pip, Mrs. Lin
 Fiction and comedy. Voices are AI-generated; the animation is original.
 Watch the whole series in order: THE LAST FLOOR, Parts 1-3, from Post Time Survival.
 
-#shorts #zombie #zombieapocalypse #animation #mystery #thelastfloor
+#shorts #zombie #zombieapocalypse #animation #survival #thelastfloor
 ```
 
 **Tags** (paste in Studio > Details > Show more > Tags; Buffer has no tags field)
